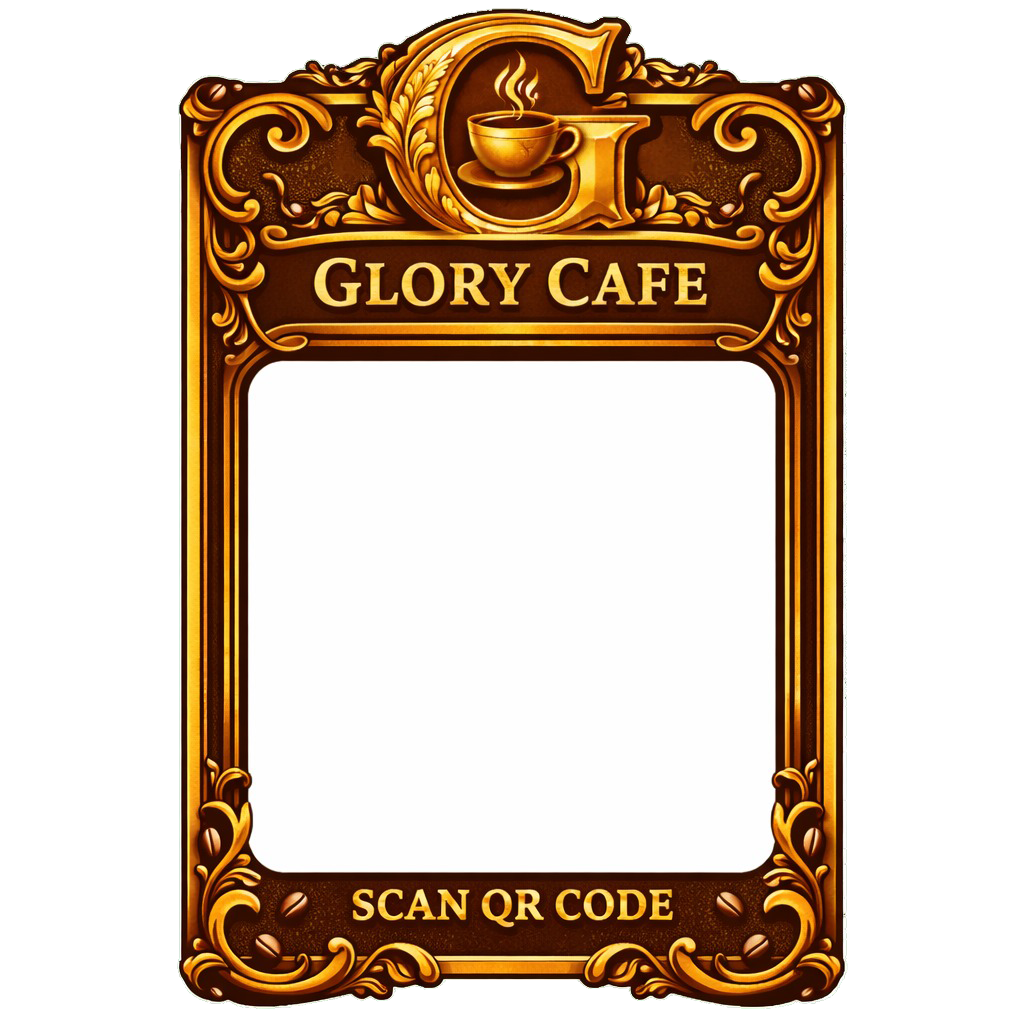
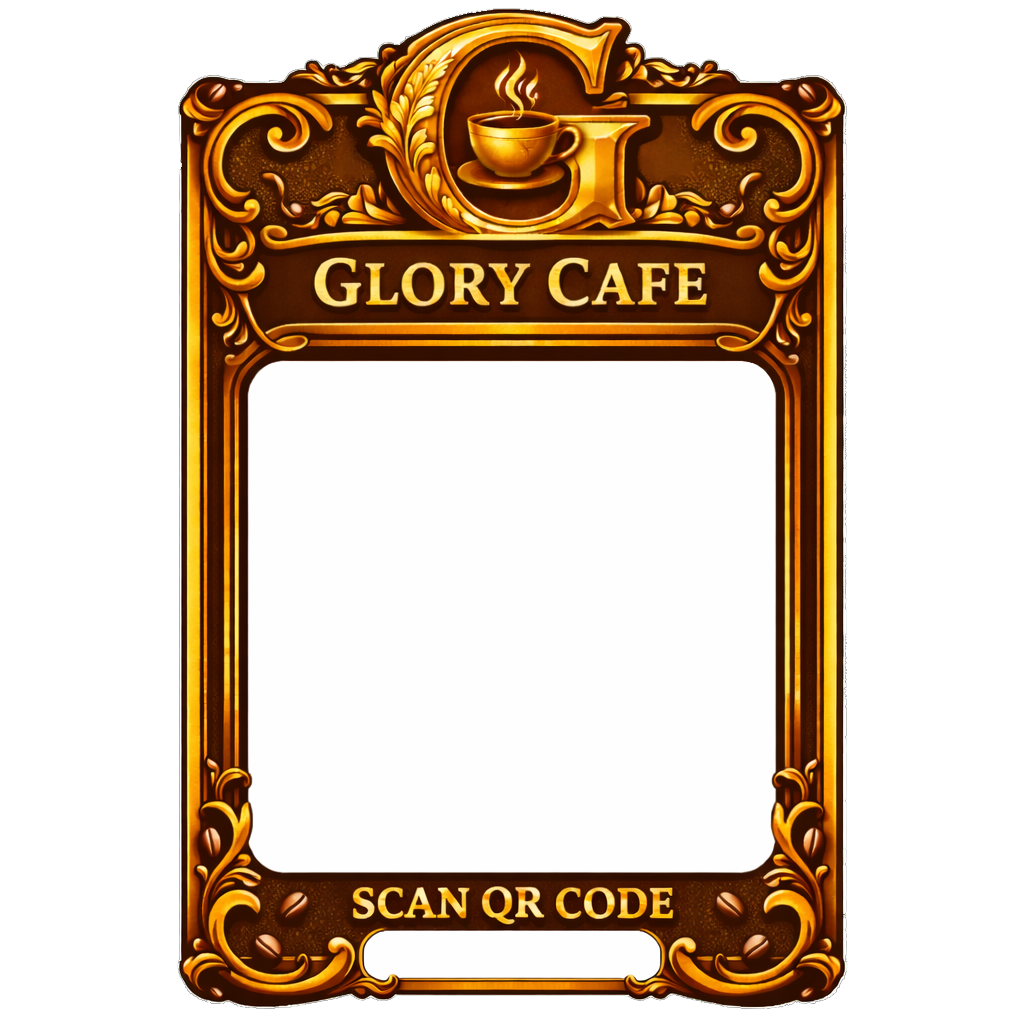
fix: order status realtime display & qr border design

diff --git a/src/views/customer/OrderStatusView.vue b/src/views/customer/OrderStatusView.vue
@@ -16,7 +16,7 @@ const statusUI = computed(() => {
 
     let ui = { color: 'bg-gray-300', percent: 10, icon: '⏳' };
 
-    if (paymentStatus === 'unpaid') {
+    if (paymentStatus === 'unpaid' || paymentStatus === 'pending') {
         return {
             color: 'bg-yellow-500',
             desc: 'Waiting for payment. Please complete the transaction.',
@@ -48,22 +48,20 @@ const statusUI = computed(() => {
 
 const payAgain = () => {
     const token = orderStore.order?.snap_token;
-    const currentOrderId = orderId.value;
-
     if (token && window.snap) {
-        localStorage.setItem('pending_order_id', currentOrderId);
-
+        localStorage.setItem('pending_order_id', orderId.value);
         window.snap.pay(token, {
             onSuccess: (result) => {
                 console.log("Payment Success!", result);
                 localStorage.removeItem('pending_order_id');
-                orderStore.fetchOrder(currentOrderId);
+                orderStore.fetchOrder(orderId.value);
             },
             onPending: (result) => {
                 console.log("Payment Pending...", result);
                 localStorage.removeItem('pending_order_id');
-                orderStore.fetchOrder(currentOrderId);
+                orderStore.fetchOrder(orderId.value);
             },
+
             onError: (result) => {
                 console.error("Payment Error", result);
                 localStorage.removeItem('pending_order_id');
@@ -193,10 +191,11 @@ onUnmounted(() => {
                 </div>
 
                 <div class="p-6">
-                    <div v-if="orderStore.order?.payment_status === 'unpaid'">
+                    <div
+                        v-if="orderStore.order?.payment_status === 'unpaid' || orderStore.order?.payment_status === 'pending'">
                         <BaseButton @click="payAgain" variant="primary"
                             class="w-full p-4 rounded-xl text-lg shadow-xl text-white">
-                            Pay Now
+                            Return to Payment
                         </BaseButton>
                     </div>
                     <div v-else>

diff --git a/src/views/admin/tables/TableList.vue b/src/views/admin/tables/TableList.vue
@@ -72,22 +72,13 @@ const handleGenerate = async () => {
     }
 };
 
-// const handleDownload = () => {
-//     if (!tableStore.qrCodeBlobUrl) return;
-//     const link = document.createElement('a');
-//     link.href = tableStore.qrCodeBlobUrl;
-//     link.download = `QR-${selectedTable.value.table_number}.png`;
-//     document.body.appendChild(link);
-//     link.click();
-//     document.body.removeChild(link);
-// };
-
 const handleDownload = async () => {
     if (!tableStore.qrCodeBlobUrl) return;
 
     try {
         const printableUrl = await generatePrintableQr(
             tableStore.qrCodeBlobUrl,
+            selectedTable.value.table_number
         );
 
         const link = document.createElement('a');

diff --git a/lib/qr-generator.js b/lib/qr-generator.js
@@ -24,7 +24,7 @@ export const generatePrintableQr = (qrBlobUrl, tableName) => {
 
                 ctx.drawImage(qrImg, qrX, qrY, qrSize, qrSize);
 
-                ctx.font = 'bold 80px Poppins, sans-serif';
+                ctx.font = 'bold 40px Poppins, sans-serif';
                 ctx.fillStyle = '#000000';
                 ctx.textAlign = 'center';
 
